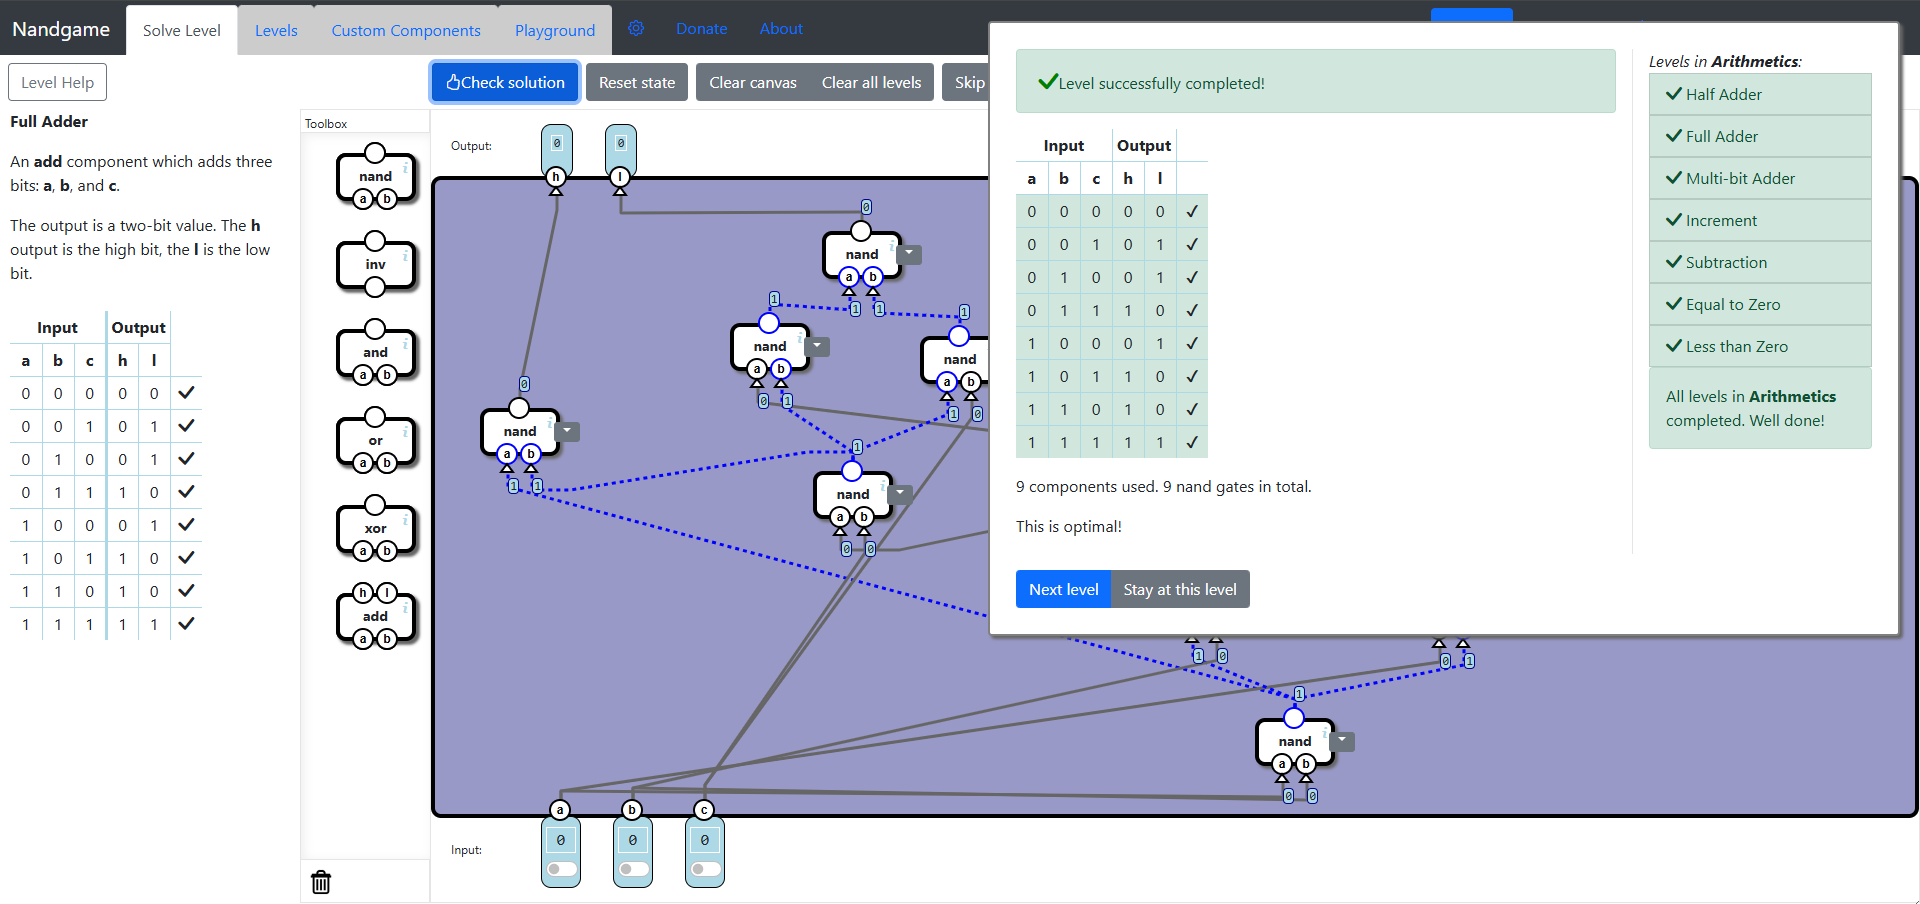
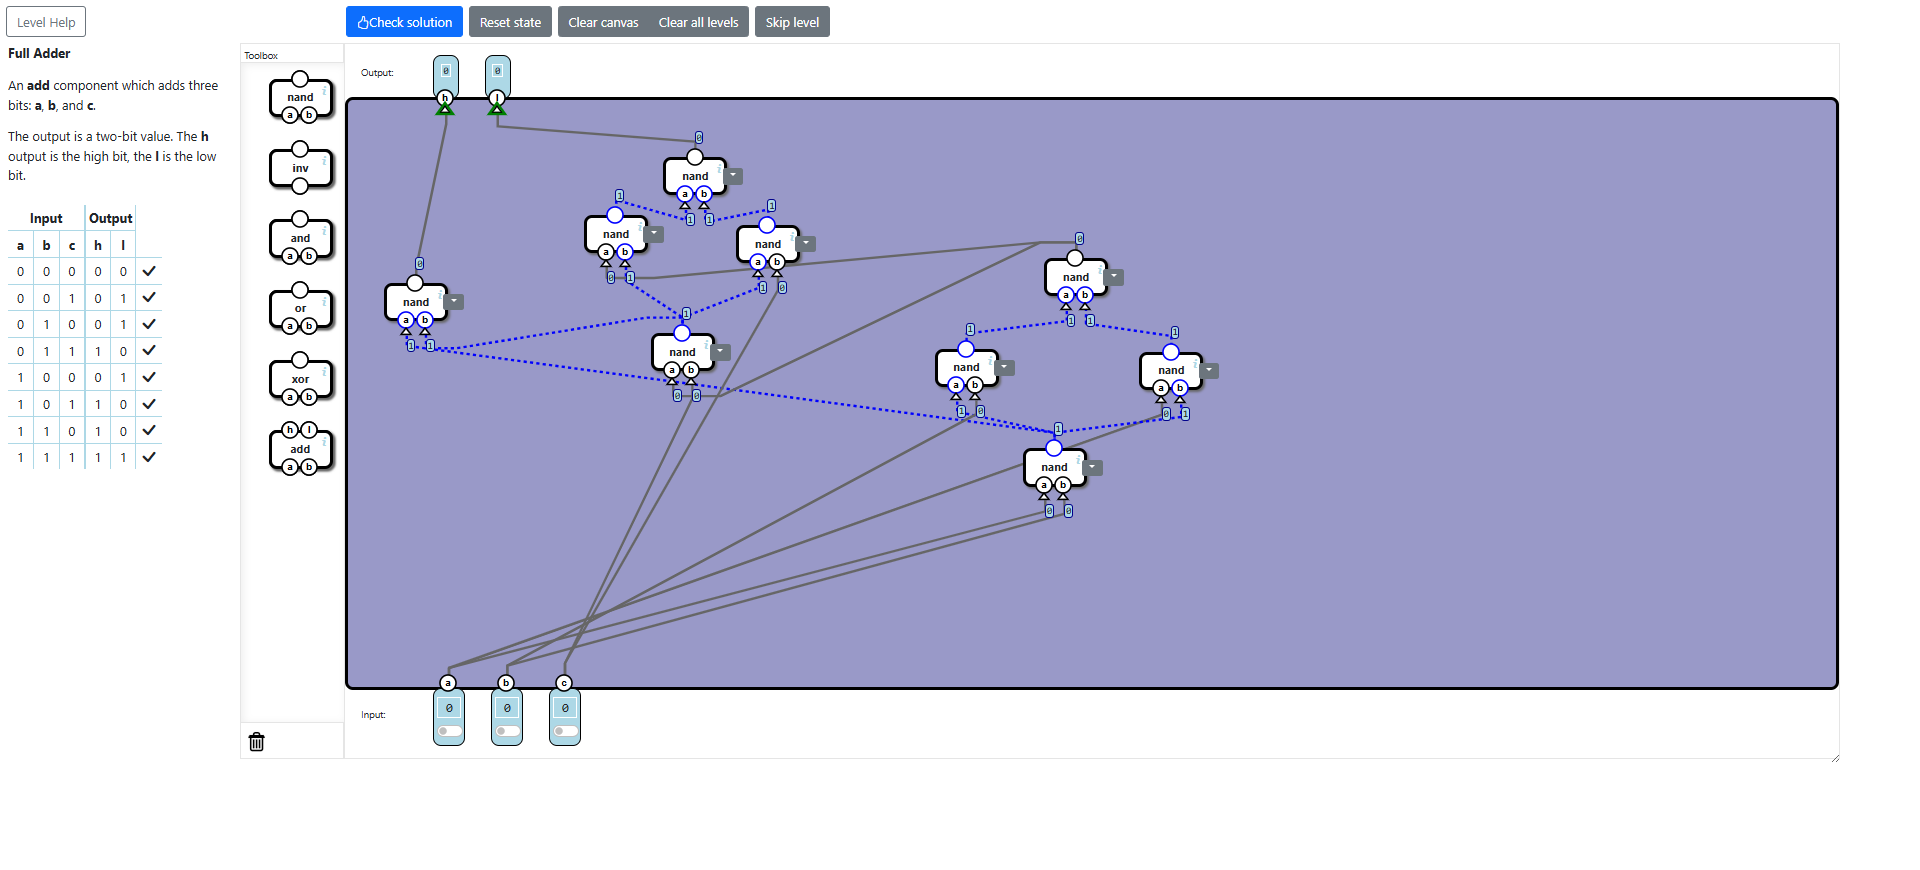
Added explanation for Full Adder

diff --git a/Solutions/Computer/Arithmetics/arithmetics.md b/Solutions/Computer/Arithmetics/arithmetics.md
@@ -1,8 +1,13 @@
 # Arithmetics
-In this subcategory you have to implement Addition, Subtraction and Comparison operations using Logic Gates. There wil be levels with multiple outputs.
+In this subcategory you have to implement Addition, Subtraction and Comparison operations using Logic Gates. There will be levels with multiple outputs.
 
 ## Half Adder
 This is not a very hard level to solve. Basically you have to implement the addition of two bits using Logic Gates. When both inputs are 0, output is 00. When one of the inputs is 1, the output is 01. When both inputs are 1, the output is 10, which is the binary representation of number 2. The trick is to have the first bit of the output set to 1 and the second bit set to 0 when both inputs are 1. For this we can use a gate for each output bit. So for the first bit we would get 1 only when both inputs are 1. Clearly the And gate works here. Now for the second bit, we want it set to 1 when one input is 1 and the other 0. The Xor gate works here. If we were to use the Or gate, the second output bit would be 1 when both inputs are 1 and that doesn't work, it has to be 0. So the first solution is to use And gate for the first output bit and Xor gate for the second output bit. Getting the optimal solution requires simplifying the circuits by reducing the number of Nand gates after replacing the components with parts using some intuition, eventually reaching a result similar to the [Xor optimal solution](../Logic-Gates/logic_gates.md#xor).
 <img src="Half-Adder.png" alt="Half Adder" width="928"/>
 
 ## Full Adder
+In this level we encounter the challenge of adding 3 bits instead of 2. The maximum value we would get by adding all the input bits is 11 which is the binary representation of number 3. As a start I added together **b** and **c** inputs using an Add component. So far we have half of the solution done. Now we have to deal with input **a** in order to have a complete solution. I added another Add component to which I attached input **a** and bit **l** from previous Add component. If we use the outputs from the second Add component as solutions, the level is still not fully solved, because we left out the output **h** from the first Add component and so, when we try to add three 1's or only inputs **b** and **c** set to 1, we don't get the desired result. We use another Add component, and we connect it to the other bit of the first Add component, the **h** output bit, and the **h** output bit of the second Add component. The final output comes from the **l** bits of both second and third Add component. We have managed to add all three bits and as a result we got a Full Adder.
+<img src="Full-Adder-First-Solution.png" alt="Full Adder First Solution" width="480"/>
+
+For the optimal solution the same strategy as before is used, just replace by parts all the components, get rid of redundant connections and apply some intuition in order to get the same results with fewer Nand gates.
+<img src="Full-Adder.png" alt="Full Adder" width="928"/>
